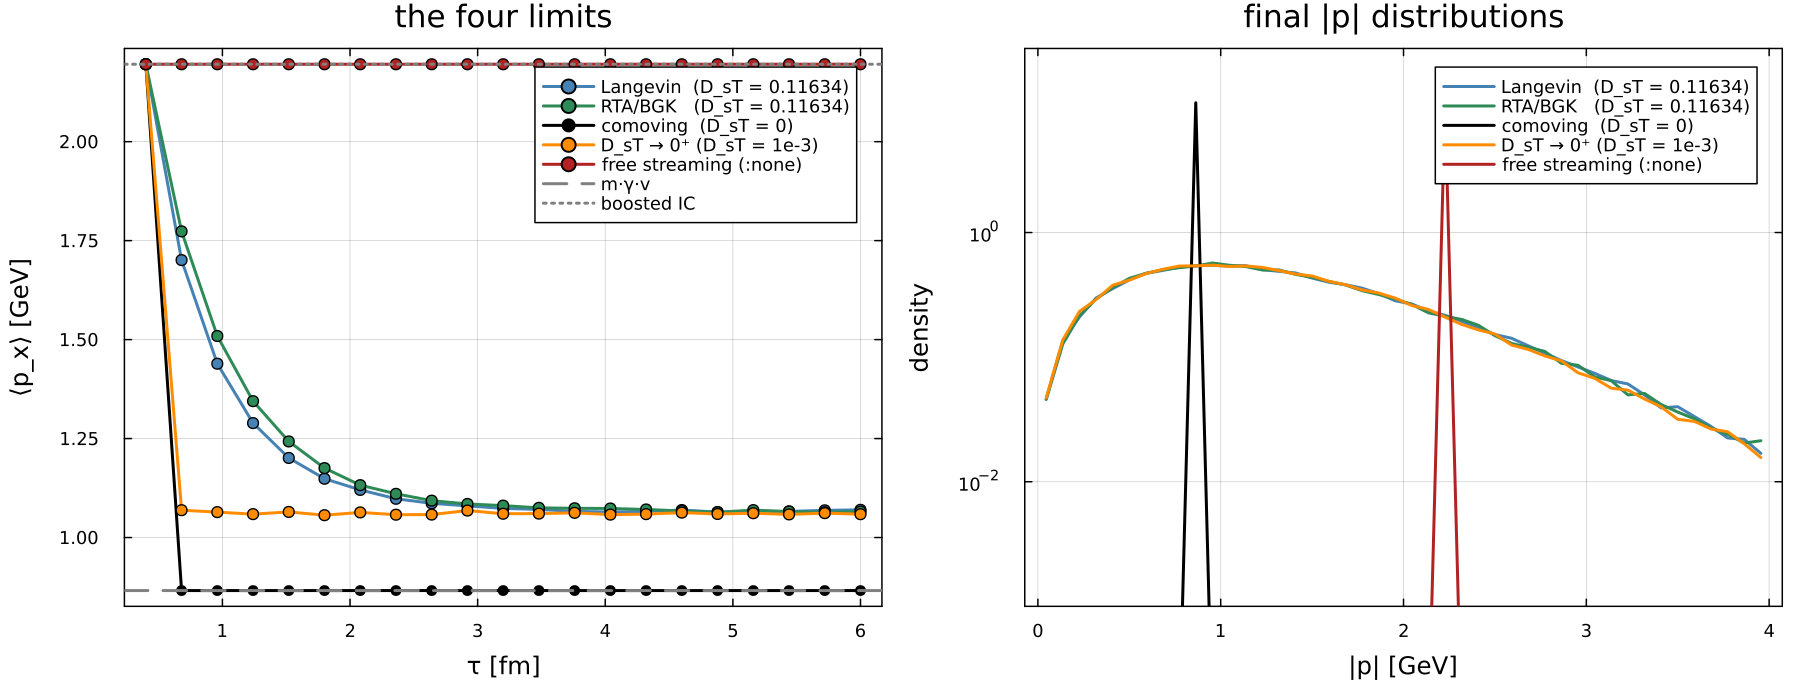
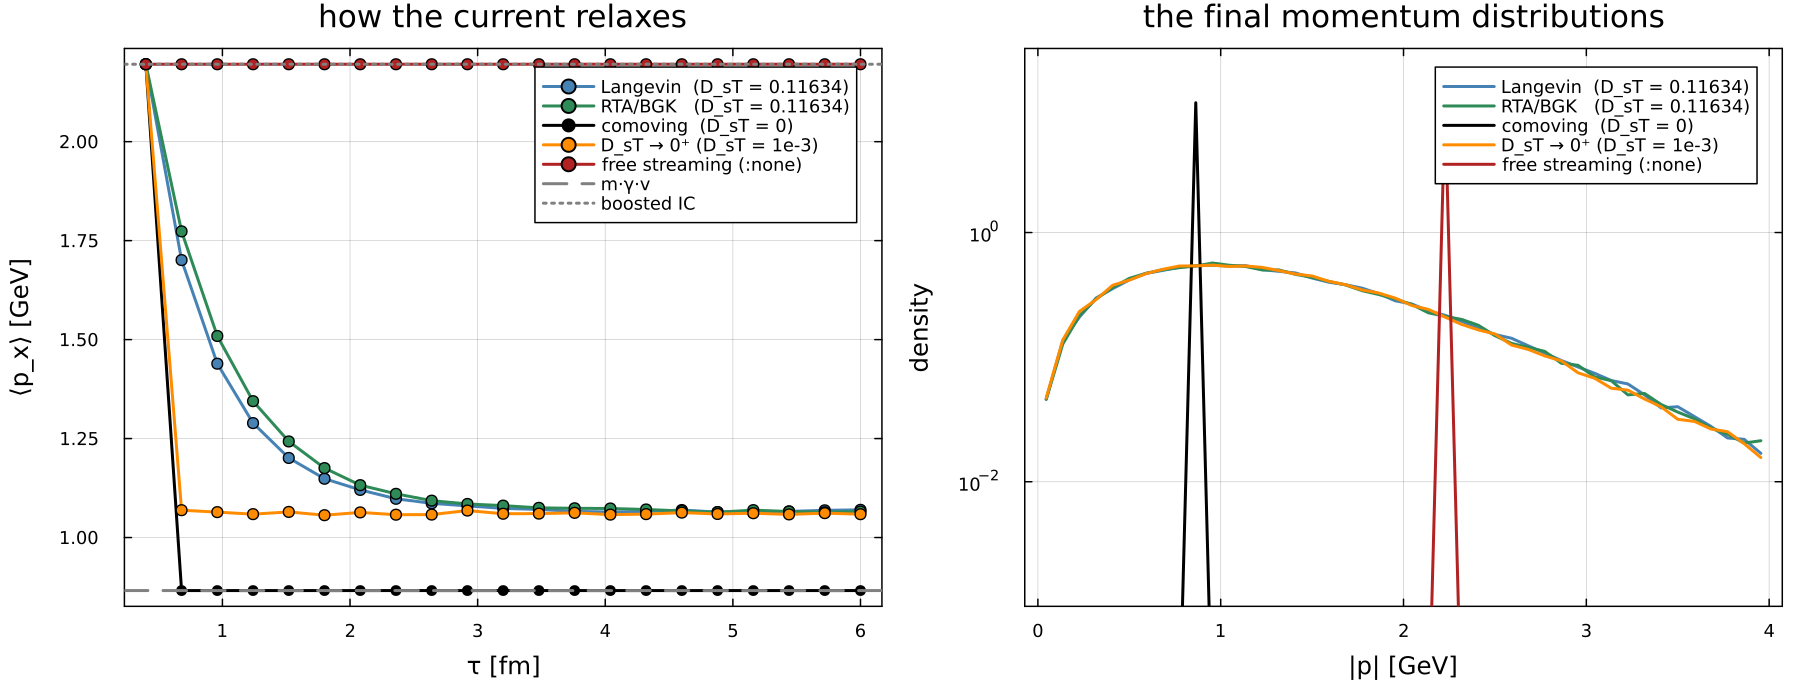
The figure said "the four limits" and the thumbnail strip was unreadable
Two things the 0.2.4 pass missed, because it changed the markdown heading without
looking at the rendered page.

The stale name was inside the PNG: 03's left panel was titled "the four limits"
while it plots five settings (:none was added in 0.2.3 and nothing renamed the
title). Now "how the current relaxes", and the right panel "the final momentum
distributions". The curves and the data are untouched.

The four-cell thumbnail table is gone. It repeated the markdown table immediately
above it and rendered four multi-panel figures at 25 % width, where none of them
was legible -- the panels within each thumbnail were a few pixels tall. The table
above lists all five examples with better descriptions, and 03 is shown full width
straight after, so the strip carried nothing but clutter.

The filename stays 03_four_limits.jl -- it is on the remote and only a label -- but
the README now says so rather than leaving the count looking like an error.

Changed region(s): [[0.6222, 0.0, 0.9333, 0.0609], [0.1556, 0.0, 0.3733, 0.0609]]

diff --git a/README.md b/README.md
@@ -117,18 +117,9 @@ LIM_NOPLOT=1 julia --project=Julia .../examples/03_four_limits.jl     # numbers 
 |---|---|---|
 | [**01**](examples/01_uniform_bath.jl) `uniform_bath` | a box at fixed `T`, no flow, a δ-function initial momentum | what `D_sT` actually sets; that ⟨p²⟩ → the Jüttner value, the current decays at `(K₂/K₃)η_D`, and the MSD slope is `2·d·D_s`. **Everything here has a closed form** — if the engine breaks, it breaks here first |
 | [**02**](examples/02_bjorken_fireball.jl) `bjorken_fireball` | a cooling, expanding fireball; the engine samples a FONLL-shaped density; freeze-out off the snapshots | the production shape of a real run, and the radial flow lifting the `p_T` spectrum (⟨p_T⟩ 1.586 → 1.318 GeV) |
-| [**03**](examples/03_four_limits.jl) `four_limits` | `:langevin`, `:rta`, `DsT = 0`, `DsT → 0⁺`, `:none` on one background | **read this one before choosing a collision setting.** The three weak-coupling settings are three *different* limits, and the figure separates them |
+| [**03**](examples/03_four_limits.jl) `four_limits` (five, since `:none` was added in 0.2.3) | `:langevin`, `:rta`, `DsT = 0`, `DsT → 0⁺`, `:none` on one background | **read this one before choosing a collision setting.** The three weak-coupling settings are three *different* limits, and the figure separates them |
 | [**04**](examples/04_pz_and_rapidity.jl) `pz_and_rapidity` | `momentum_dimensions = 3`, both `pz_init` modes, `track_eta_s` | what row 3 *means* (`p_z* = m_T sinh(y − η_s)`, not a lab `p_z`), and the kernel that makes `dN/dy = ρ(η_s) ⊛ P(K)` exact |
 | [**05**](examples/05_gpu_freezeout.jl) `gpu_freezeout` | the GPU path with `freezeout_capture` | the production pattern: memory ∝ `N` instead of `N·(saves+1)`, the crossing resolved to `Δt`, and the fact that the run does **not** stop at freeze-out |
-
-<table>
-<tr>
-<td width="25%"><a href="examples/02_bjorken_fireball.jl"><img src="examples/figures/02_bjorken_fireball.png" alt="02"></a><br><sub><b>02</b> a heavy-ion run: the radial flow lifting the charm p_T spectrum, the freeze-out time distribution, the radial expansion</sub></td>
-<td width="25%"><a href="examples/04_pz_and_rapidity.jl"><img src="examples/figures/04_pz_and_rapidity.png" alt="04"></a><br><sub><b>04</b> the two p_z* initialisations being forgotten, and the dN/dy kernel P(K) they leave behind</sub></td>
-<td width="25%"><a href="examples/05_gpu_freezeout.jl"><img src="examples/figures/05_gpu_freezeout.png" alt="05"></a><br><sub><b>05</b> the GPU freeze-out latch: spectrum, crossing time resolved to Δt, and the freeze-out surface</sub></td>
-<td width="25%"><a href="examples/03_four_limits.jl"><img src="examples/figures/03_four_limits.png" alt="03"></a><br><sub><b>03</b> the five collision settings on one background: which of them thermalise, which stay glued to the flow, and which do nothing at all</sub></td>
-</tr>
-</table>
 
 ### The weak-coupling limits
 
